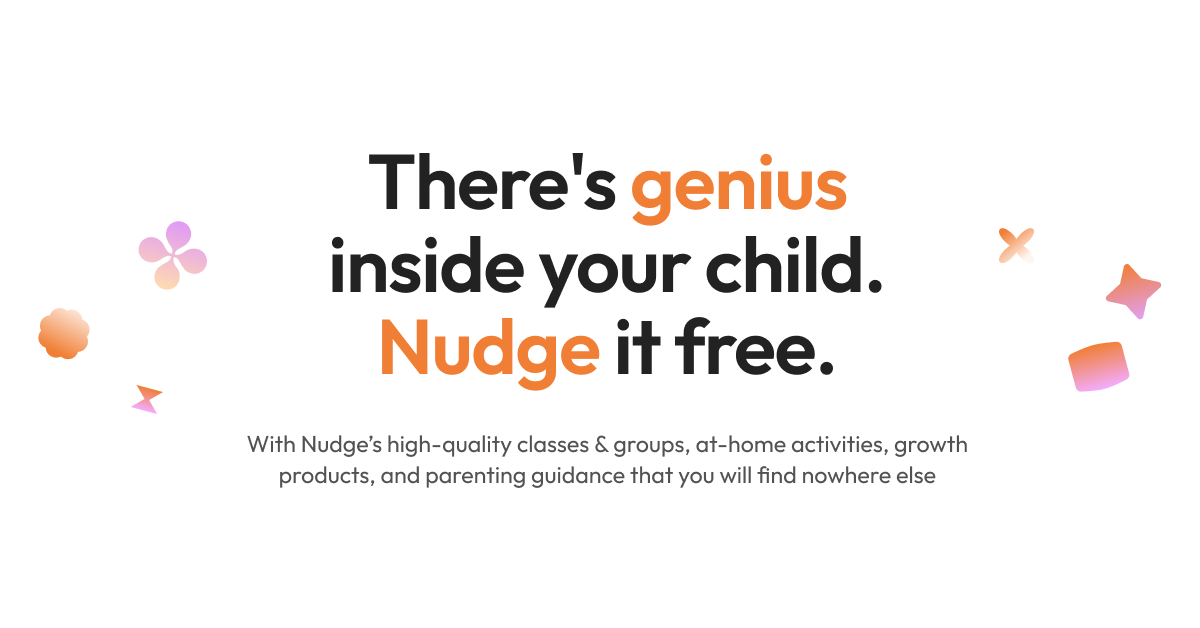
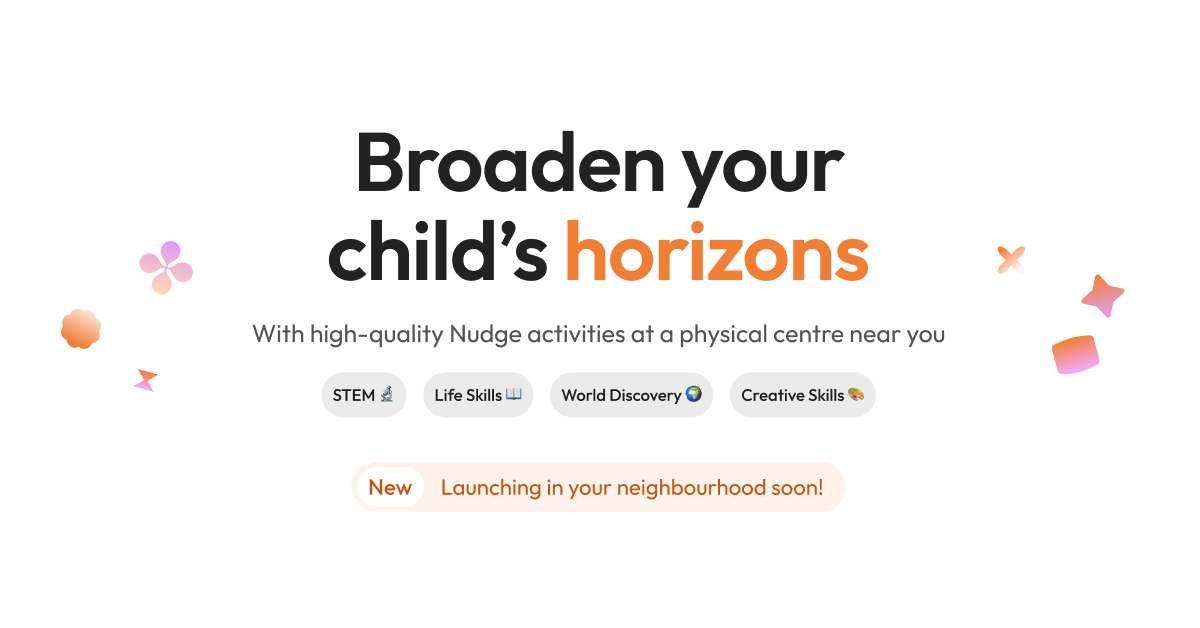
new meta info

diff --git a/components/general/Header.js b/components/general/Header.js
@@ -23,15 +23,15 @@ function Header() {
 				/>
 				<meta
 					name="title"
-					content="NudgeVerse - There's genius in your child. Nudge it free."
+					content="NudgeVerse - Broaden your child's horizons."
 				/>
 				<meta
 					name="description"
-					content="There's genius in your child. Nudge it free.. with high-quality classes & groups, at-home activities, growth products, and parenting guidance that you will find nowhere else"
+					content="Broaden your child's horizons.. with high-quality Nudge activities at a physical centre near you"
 				/>
 				<meta
 					name="keywords"
-					content="parenting, classes, online, offline, groups, activities, growth, nudge, free, genius, nudgeverse, verse, nudge verse, nudge parenting"
+					content="activities, nudge activities, parenting, classes, online, offline, groups, activities, growth, nudge, free, genius, nudgeverse, verse, nudge verse, nudge parenting"
 				/>
 				<meta name="robots" content="index, follow" />
 
@@ -40,11 +40,11 @@ function Header() {
 				<meta property="og:url" content="https://www.nudgeverse.com/" />
 				<meta
 					property="og:title"
-					content="NudgeVerse - There's genius in your child. Nudge it free."
+					content="NudgeVerse - Broaden your child's horizons."
 				/>
 				<meta
 					property="og:description"
-					content="There's genius in your child. Nudge it free.. with high-quality classes & groups, at-home activities, growth products, and parenting guidance that you will find nowhere else"
+					content="Broaden your child's horizons.. with high-quality Nudge activities at a physical centre near you"
 				/>
 				<meta
 					property="og:image"
@@ -52,17 +52,14 @@ function Header() {
 				/>
 				{/* <!-- TWITTER --> */}
 				<meta property="twitter:card" content="summary_large_image" />
-				<meta
-					property="twitter:url"
-					content="https://nudgeparenting.com"
-				/>
+				<meta property="twitter:url" content="https://nudgeverse.com" />
 				<meta
 					property="twitter:title"
-					content="NudgeVerse - There's genius in your child. Nudge it free."
+					content="NudgeVerse - Broaden your child's horizons."
 				/>
 				<meta
 					property="twitter:description"
-					content="There's genius in your child. Nudge it free.. with high-quality classes & groups, at-home activities, growth products, and parenting guidance that you will find nowhere else"
+					content="Broaden your child's horizons.. with high-quality Nudge activities at a physical centre near you"
 				/>
 				<meta
 					property="twitter:image"
